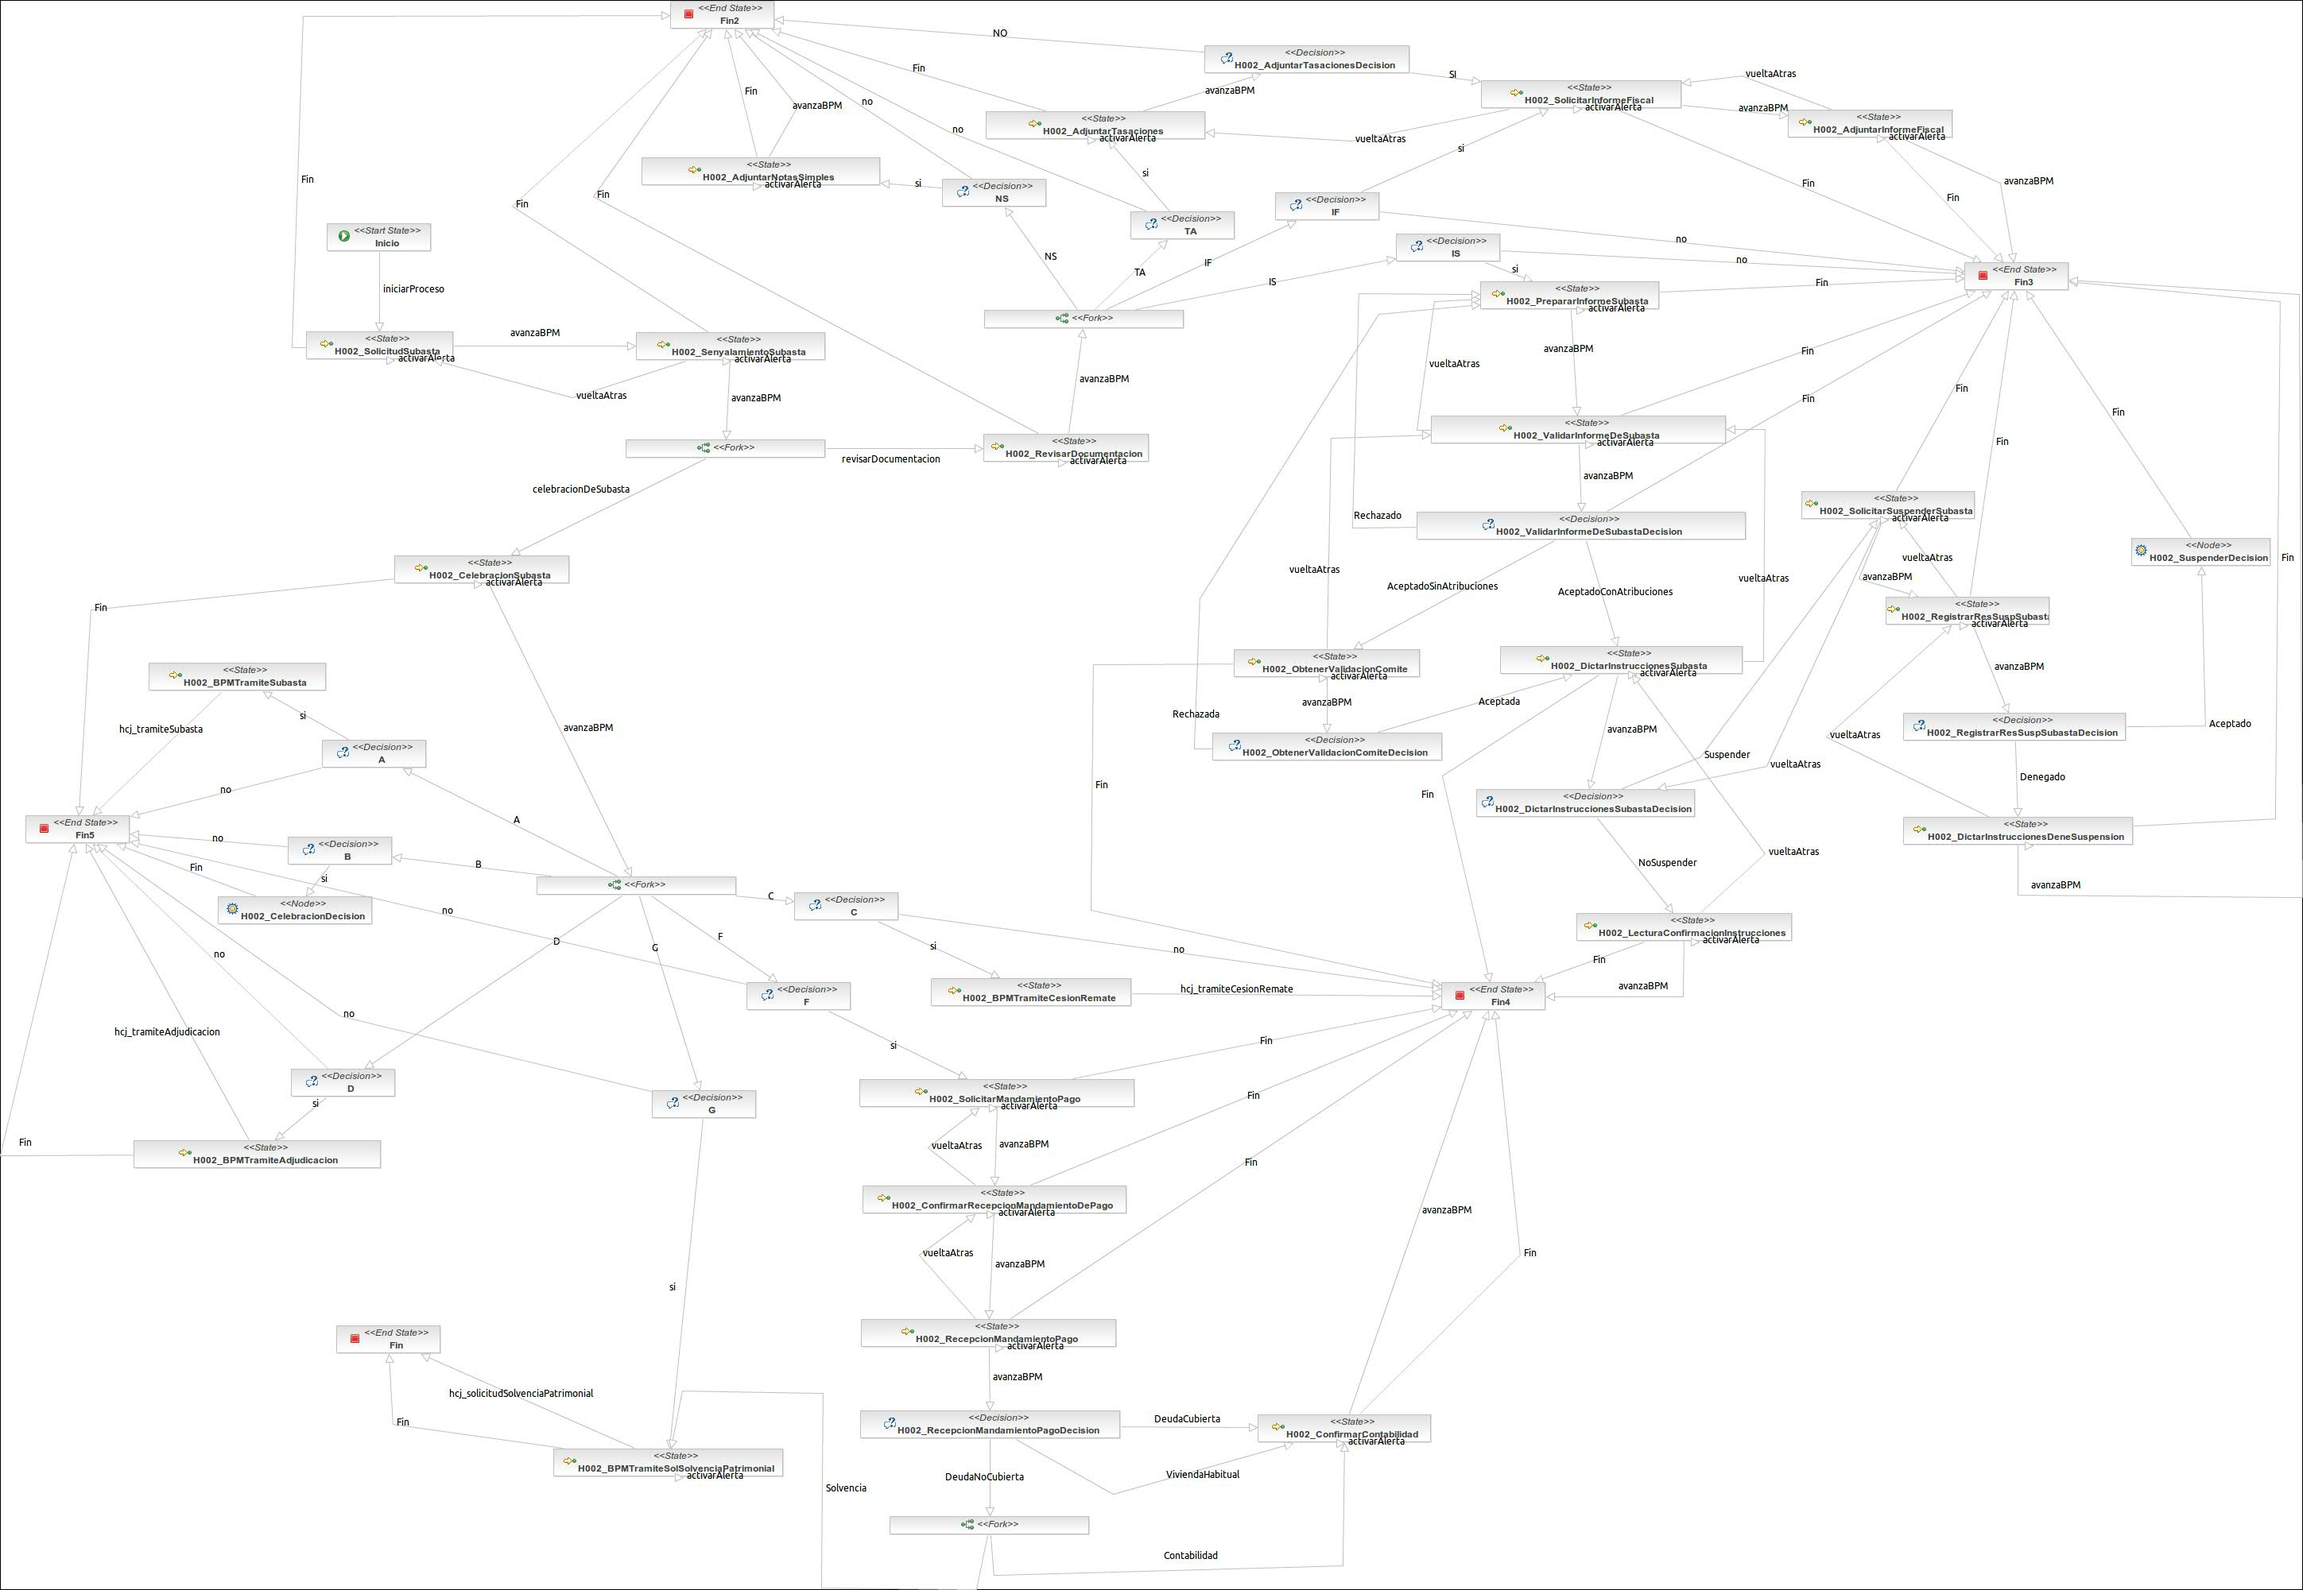
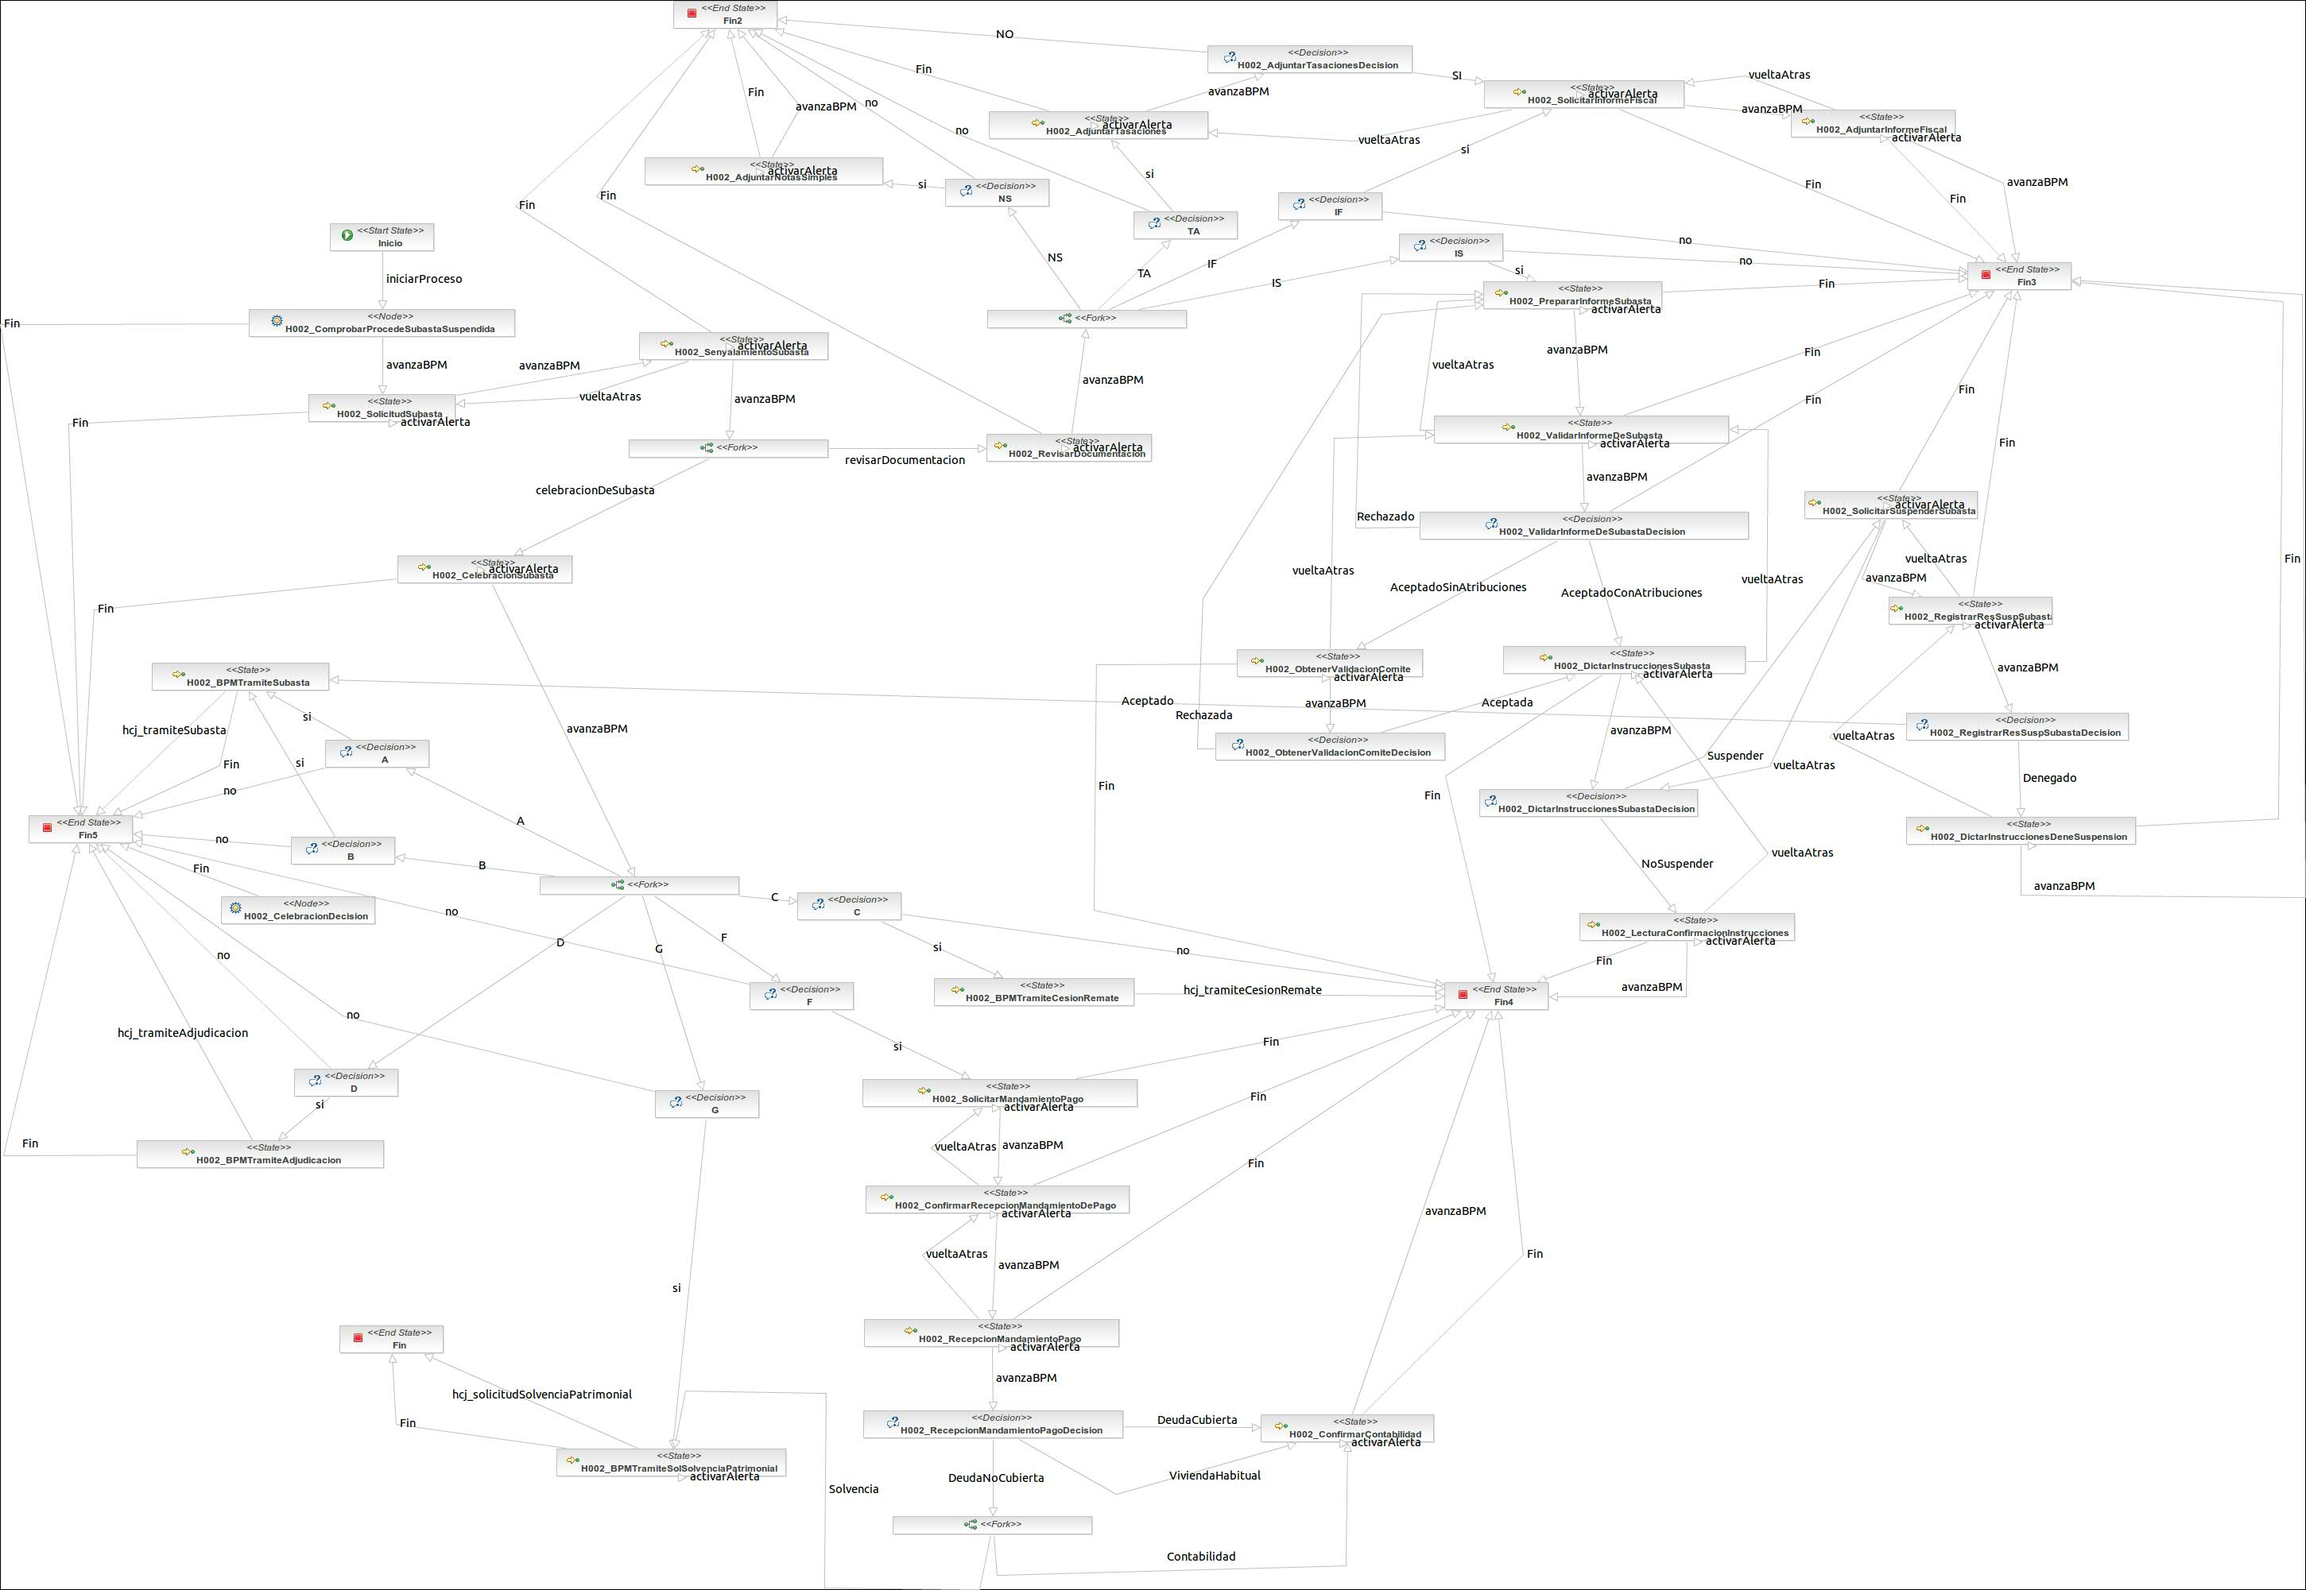
[CMREC-817] Modificaciones en el trámite de subasta.
Former-commit-id: 70f0a3606dc9a30ff520630e5c788dfc807fbfed

diff --git a/proyecto-haya/src/main/java/es/pfsgroup/procedimientos/subasta/SubastaComprobarProcedeSubastaSuspendidaHandler.java b/proyecto-haya/src/main/java/es/pfsgroup/procedimientos/subasta/SubastaComprobarProcedeSubastaSuspendidaHandler.java
@@ -1,0 +1,96 @@
+package es.pfsgroup.procedimientos.subasta;
+
+import java.util.List;
+
+import org.jbpm.graph.exe.ExecutionContext;
+import org.springframework.beans.factory.annotation.Autowired;
+
+import es.capgemini.devon.utils.BPMUtils;
+import es.capgemini.pfs.BPMContants;
+import es.capgemini.pfs.asunto.model.Procedimiento;
+import es.capgemini.pfs.procesosJudiciales.TareaExternaManager;
+import es.capgemini.pfs.procesosJudiciales.model.DDSiNo;
+import es.capgemini.pfs.procesosJudiciales.model.TareaExterna;
+import es.capgemini.pfs.procesosJudiciales.model.TareaExternaValor;
+import es.pfsgroup.commons.utils.api.ApiProxyFactory;
+import es.pfsgroup.plugin.recovery.coreextension.subasta.model.DDDecisionSuspension;
+import es.pfsgroup.procedimientos.PROBaseActionHandler;
+
+
+public class SubastaComprobarProcedeSubastaSuspendidaHandler extends PROBaseActionHandler {
+
+	private static final long serialVersionUID = 1L;
+
+	private static final int DIAS_ESPERA_SUBASTA = 60;
+	private static final String TIMER_NAME = "Espera Subasta Suspendida";
+	private static final String TIMER_DURATION_MASK = "%d days";
+	
+	@Autowired
+	protected ApiProxyFactory proxyFactory;
+	
+	@Autowired
+    private TareaExternaManager tareaExternaManager;
+	
+    /**
+     * Comprueba si procede de un trámite de subasta que ha sido suspendido. En ese caso lanza una tarea de espera de 60 días; en otro continúa el trámite
+     * @throws Exception e
+     */
+    @Override
+    public void run(ExecutionContext executionContext) throws Exception {
+    	
+		Procedimiento prc = getProcedimiento(executionContext);
+		Procedimiento prcPadre = prc.getProcedimientoPadre();
+		
+		// Si procede de un trámite de subasta se comprueba si la subasta ha sido suspendida
+		if(prcPadre != null && prcPadre.getTipoProcedimiento().getCodigo().equals("H002")) {
+			
+			boolean esperar = false;
+			List<TareaExterna> tareasPadre = tareaExternaManager.obtenerTareasPorProcedimiento(prcPadre.getId());
+			
+			for(TareaExterna tex : tareasPadre) {
+				
+				if("H002_RegistrarResSuspSubasta".equals(tex.getTareaProcedimiento().getCodigo())) {
+					
+					for(TareaExternaValor tev : tex.getValores()) {
+						
+						if(tev.getNombre().equals("comboSuspension")) {
+							if(tev.getValor().equals(DDSiNo.SI)) {
+								esperar = true;
+								break;
+							}
+						}
+						
+					}
+				}
+				else if("H002_CelebracionSubasta".equals(tex.getTareaProcedimiento().getCodigo())) {
+					
+					for(TareaExternaValor tev : tex.getValores()) {
+						
+						if(tev.getNombre().equals("comboDecisionSuspension")) {
+							if(tev.getValor().equals(DDDecisionSuspension.ENTIDAD)) {
+								esperar = true;
+								break;
+							}
+						}					
+					}
+				}
+				
+				if(esperar) {
+					break;
+				}
+			}
+		
+			if(esperar) {
+				String duration = String.format(TIMER_DURATION_MASK, DIAS_ESPERA_SUBASTA);
+				BPMUtils.createTimer (executionContext, TIMER_NAME, duration, BPMContants.TRANSICION_AVANZA_BPM);
+			}
+			else {
+				executionContext.getToken().signal(BPMContants.TRANSICION_AVANZA_BPM);
+			}
+		}
+		// Si no procede de un trámite de subasta se avanza el trámite 
+		else {
+			executionContext.getToken().signal(BPMContants.TRANSICION_AVANZA_BPM);
+		}
+    }
+}
